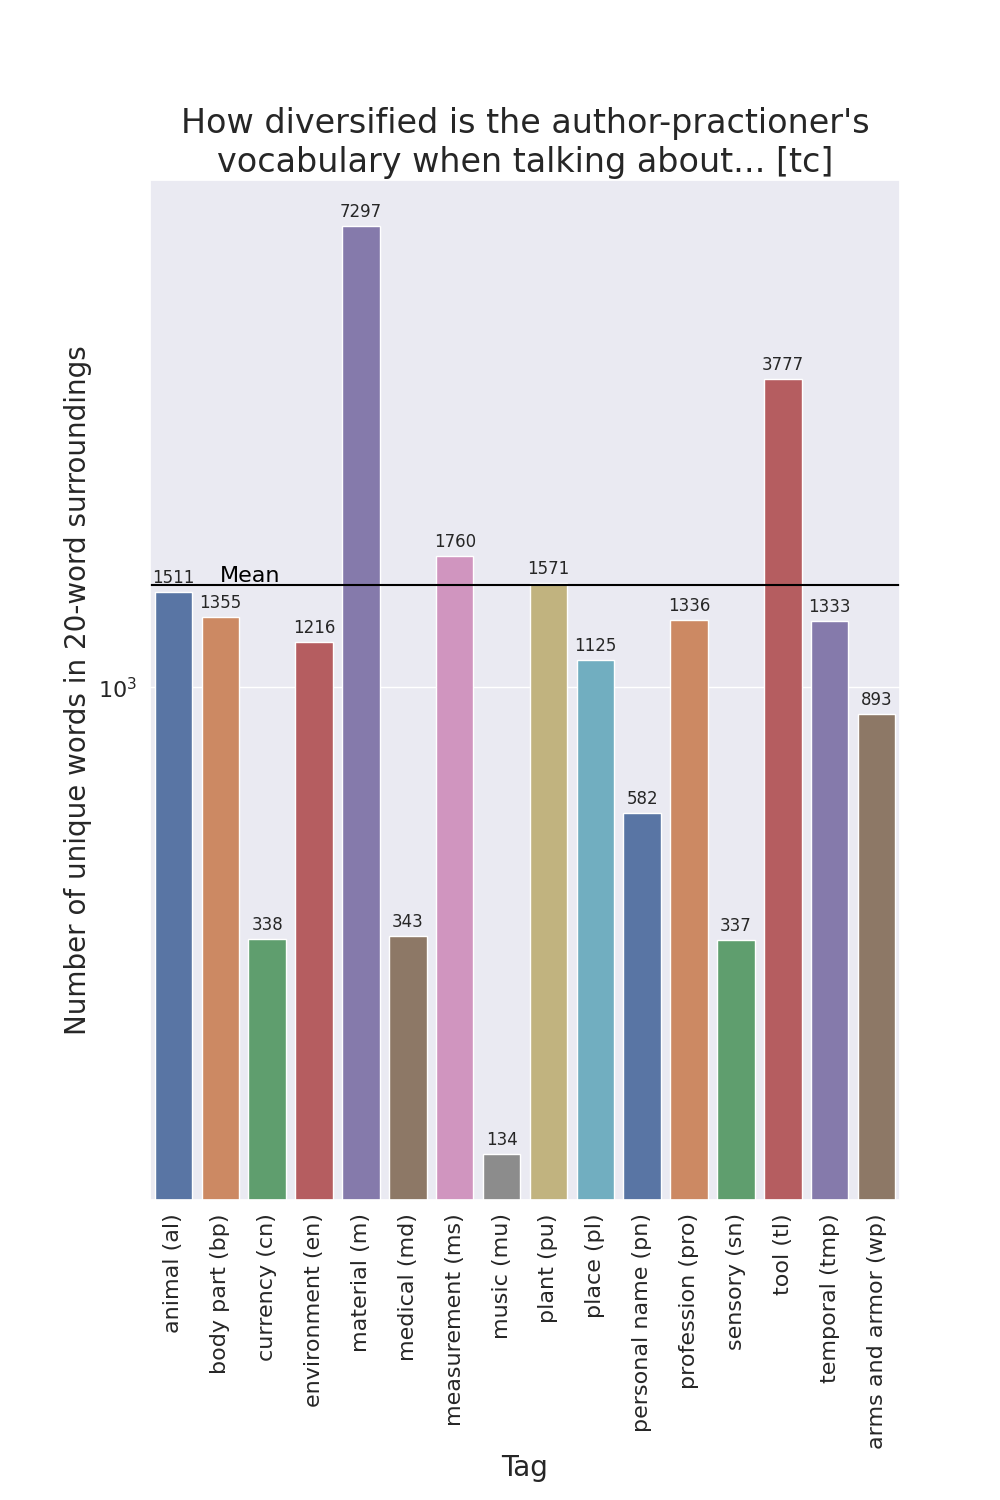
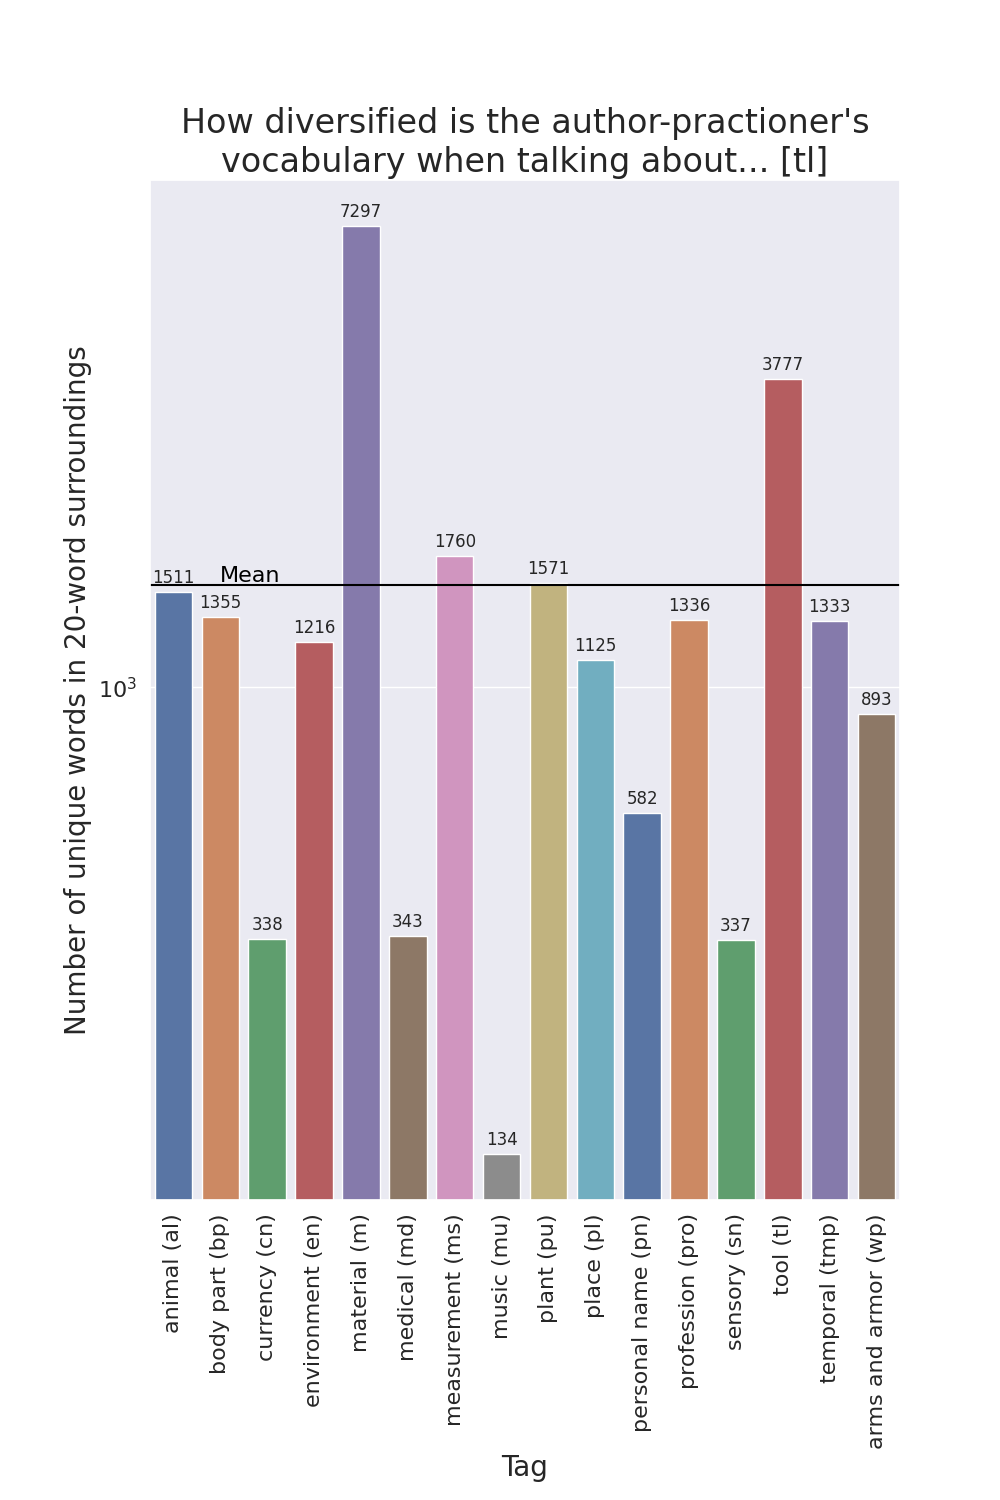
code reorganization + now all manuscript versions done in one execution

Changed region(s): [[0.217, 0.092, 0.744, 0.1227], [0.775, 0.092, 0.837, 0.1227]]

diff --git a/context_viz.py b/context_viz.py
@@ -10,20 +10,12 @@ import pandas
 import seaborn as sns; sns.set()
 import matplotlib.pyplot as plt
 
-manuscript_version = "tl" # "tl", "tc" or "tcn"
-
 cwd = os.getcwd()
 m_path = cwd if 'manuscript-object' not in cwd else f'{cwd}/../'
 m_k_data_to_context = f'{m_path}/manuscript-object/context'
-viz_path = f'{m_path}/manuscript-object/context_visualizations/{manuscript_version}'
 
 if not os.path.exists(m_k_data_to_context):
     sys.exit("Error: no context directory found")
-
-if not os.path.exists(viz_path):
-    os.mkdir(viz_path)
-
-viz_path = f'{viz_path}/{manuscript_version}_'
 
 tags = ["al", "bp", "cn", "env", "m", "md", "ms", "mu", "pa", "pl", "pn", "pro",
         "sn", "tl", "tmp", "wp"] # which tags we're looking for
@@ -61,57 +53,78 @@ def filter_digits(word):
     else:
         return True
 
-all_items = []
-all_context = []
-all_items_without_duplicates = []
-all_context_without_duplicates = []
 
-for tag in tags:
-    filename = m_k_data_to_context + "/" + manuscript_version + "/context_" + manuscript_version + "_" + tag + "_tags.csv"
-    these_items = [] # interior of the tag
-    this_context = [] # context of the tag
+# Get all necessary data for the visualizations
+# Returns four two_dimensional Python arrays:
+# - all_items (all items in inside of tags, for each tag)
+# - all_context (all contexts, for each tag)
+# - all_items_without_duplicates (same without duplicates)
+# - all_context_without_duplicates (same without duplicates)
 
-    with open(filename) as csv_file:
-        csv_reader = csv.reader(csv_file, delimiter=',')
-        line_count = 0
-        for row in csv_reader:
-            if line_count > 0:
-                tag_text = row[1].lower()
-                context_text = (row[2] + row[3]).lower()
-                remove_chars = ["[", "]", "'", ",", '&', "’"]
-                for char in remove_chars:
-                    tag_text = tag_text.replace(char, "")
-                    context_text = context_text.replace(char, "")
-                tag_word_list = tag_text.split()
-                context_word_list = context_text.split()
-                # remove stopwords
-                tag_word_list = filter(filter_stopwords, tag_word_list)
-                context_word_list = filter(filter_stopwords, context_word_list)
-                # remove digits
-                tag_word_list = filter(filter_digits, tag_word_list)
-                context_word_list = filter(filter_digits, context_word_list)
-                if tag_word_list != []:
-                    these_items += tag_word_list
-                if context_word_list != []:
-                    this_context += context_word_list
-            line_count += 1
+def get_data(manuscript_version):
 
-    all_items.append(these_items)
-    all_context.append(this_context)
+    # manuscript_version = "tc", "tcn" or "tl"
 
-    all_items_without_duplicates.append(list(dict.fromkeys(these_items)))
-    all_context_without_duplicates.append(list(dict.fromkeys(this_context)))
+    all_items = []
+    all_context = []
+    all_items_without_duplicates = []
+    all_context_without_duplicates = []
+
+    for tag in tags:
+        filename = m_k_data_to_context + "/" + manuscript_version + "/context_" + manuscript_version + "_" + tag + "_tags.csv"
+        these_items = [] # interior of the tag
+        this_context = [] # context of the tag
+
+        with open(filename) as csv_file:
+            csv_reader = csv.reader(csv_file, delimiter=',')
+            line_count = 0
+            for row in csv_reader:
+                if line_count > 0:
+                    tag_text = row[1].lower()
+                    context_text = (row[2] + row[3]).lower()
+                    remove_chars = ["[", "]", "'", ",", '&', "’"]
+                    for char in remove_chars:
+                        tag_text = tag_text.replace(char, "")
+                        context_text = context_text.replace(char, "")
+                    tag_word_list = tag_text.split()
+                    context_word_list = context_text.split()
+                    # remove stopwords
+                    tag_word_list = filter(filter_stopwords, tag_word_list)
+                    context_word_list = filter(filter_stopwords, context_word_list)
+                    # remove digits
+                    tag_word_list = filter(filter_digits, tag_word_list)
+                    context_word_list = filter(filter_digits, context_word_list)
+                    if tag_word_list != []:
+                        these_items += tag_word_list
+                    if context_word_list != []:
+                        this_context += context_word_list
+                line_count += 1
+
+        all_items.append(these_items)
+        all_context.append(this_context)
+
+        all_items_without_duplicates.append(list(dict.fromkeys(these_items)))
+        all_context_without_duplicates.append(list(dict.fromkeys(this_context)))
+
+    return all_items, all_context, all_items_without_duplicates, all_context_without_duplicates
+
 
 # heatmap visualization
 # how similar are contexts from different tags
-def create_symmetrical_heatmap():
+
+def create_symmetrical_heatmap(data, manuscript_version):
+
+    # data = all_context_without_duplicates
+    # manuscript_version = "tc", "tcn" or "tl"
+
     matrix = []
     I = np.ones(len(tags)) - np.eye(len(tags))
+    # I is used for the average without the diagonal
     line_count = 0
-    for i in all_context_without_duplicates:
+    for i in data:
         si = set(i)
         line = []
-        for j in all_context_without_duplicates:
+        for j in data:
             sj = set(j)
             # how much of si and sj is in common
             line.append(len(si.intersection(sj))/len(si.union(sj))*100)
@@ -142,16 +155,23 @@ def create_symmetrical_heatmap():
     fig = heatmap.get_figure()
     fig.savefig(viz_path + "symmetrical_heatmap.png")
 
+
 # heatmap visualization
 # how similar are contexts from different tags
-def create_asymmetrical_heatmap():
+
+def create_asymmetrical_heatmap(data, manuscript_version):
+
+    # data = all_context_without_duplicates
+    # manuscript_version = "tc", "tcn" or "tl"
+
     matrix = []
     I = np.ones(len(tags)) - np.eye(len(tags))
+    # I is used for the average without the diagonal
     line_count = 0
-    for i in all_context_without_duplicates:
+    for i in data:
         si = set(i)
         line = []
-        for j in all_context_without_duplicates:
+        for j in data:
             sj = set(j)
             # how much of si is in sj
             line.append(len(si.intersection(sj))/len(sj)*100)
@@ -182,23 +202,76 @@ def create_asymmetrical_heatmap():
     fig = heatmap.get_figure()
     fig.savefig(viz_path + "asymmetrical_heatmap.png")
 
+
+# heatmap visualization
+# how similar are the contexts from tc and tcn
+
+def difference_asymmetrical_heatmap(data):
+
+    # data_tc = all_context_without_duplicates (difference between tc and tcn)
+
+    matrix = []
+    I = np.ones(len(tags)) - np.eye(len(tags))
+    # I is used for the average without the diagonal
+    line_count = 0
+    for i in data:
+        si = set(i)
+        line = []
+        for j in data:
+            sj = set(j)
+            # how much of si is in sj
+            line.append(len(si.intersection(sj))/len(sj)*100)
+        line.append(np.average(line, weights = I[line_count]))
+        matrix.append(line)
+        line_count += 1
+    tag_range = range(len(tags))
+    averages = [np.average([matrix[i][j] for i in tag_range], weights = I[j]) for j in tag_range]
+    matrix.append(averages)
+
+    legend = tag_names + ["MEAN"]
+    df = pandas.DataFrame(matrix, index = legend, columns = legend)
+    no_diag_mask = np.identity(len(legend))
+    plt.subplots(figsize = (15, 15))
+    plt.gcf().subplots_adjust(bottom = 0.2)
+    plt.gcf().subplots_adjust(left = 0.2)
+    heatmap = sns.heatmap(df, square = True, mask = no_diag_mask,
+                          annot = True, annot_kws = {"size": 16},
+                          cmap = sns.cm.rocket_r)
+    heatmap.collections[0].colorbar.set_label("Percentage of included words in 20-word surroundings",
+                                              fontsize = 20)
+    heatmap.set_title("How similar is the author-practioner's vocabulary\nwhen talking about two different topics [" + manuscript_version + "]",
+                      fontsize = 22)
+    heatmap.set_ylabel("How much of this tag's context vocabulary...", fontsize = 20)
+    heatmap.set_xlabel("...is included in this tag's context vocabulary?", fontsize = 20)
+    heatmap.set_xticklabels(legend, size = 16)
+    heatmap.set_yticklabels(legend, size = 16)
+    fig = heatmap.get_figure()
+    fig.savefig(viz_path + "asymmetrical_heatmap.png")
+
+
 # barplot visualization
 # how diverse are contexts from different tags
-def create_barplot(normalized):
+
+def create_barplot(data, manuscript_version, normalized):
+
+    # data = [all_context_without_duplicates, all_items]
+    # manuscript_version = "tc", "tcn" or "tl"
+    # normalized = True of False
+
     plt.subplots(figsize = (10,15))
     plt.gcf().subplots_adjust(bottom = 0.2)
     plt.gcf().subplots_adjust(left = 0.15)
     if normalized:
-        data = [len(all_context_without_duplicates[i])/len(all_items[i]) for i in range(len(tags))]
+        hist_data = [len(data[0][i])/len(data[1][i]) for i in range(len(tags))]
         ylabel_appendix = ",\ndivided by the number of times this tag appears"
         filename_appendix = "_normalized"
     else:
-        data = [len(all_context_without_duplicates[i]) for i in range(len(tags))]
+        hist_data = [len(data[0][i]) for i in range(len(tags))]
         ylabel_appendix = ""
         filename_appendix = ""
-    barplt = sns.barplot(x = tag_names, y = data,
+    barplt = sns.barplot(x = tag_names, y = hist_data,
                          palette = "deep")
-    mean = np.mean(data)
+    mean = np.mean(hist_data)
     barplt.axhline(mean, ls='-', color = "black")
     barplt.text(1, mean*1.01, "Mean", fontsize = 16, color = "black")
     for p in barplt.patches:
@@ -219,7 +292,20 @@ def create_barplot(normalized):
     fig = barplt.get_figure()
     fig.savefig(viz_path + "barplot" + filename_appendix + ".png")
 
-create_symmetrical_heatmap()
-create_asymmetrical_heatmap()
-create_barplot(True)
-create_barplot(False)
+
+for v in ["tc", "tcn", "tl"]:
+    viz_path = f'{m_path}/manuscript-object/context_visualizations/{v}'
+
+    if not os.path.exists(viz_path):
+        os.mkdir(viz_path)
+
+    viz_path = f'{viz_path}/{v}_' # for file names purpose
+
+    all_items, all_context, all_items_without_duplicates, all_context_without_duplicates = get_data(v)
+
+    create_symmetrical_heatmap(all_context_without_duplicates, v)
+    create_asymmetrical_heatmap(all_context_without_duplicates, v)
+    create_barplot([all_context_without_duplicates, all_items], v, True)
+    create_barplot([all_context_without_duplicates, all_items], v, False)
+
+    print(v + " visualizations complete")
